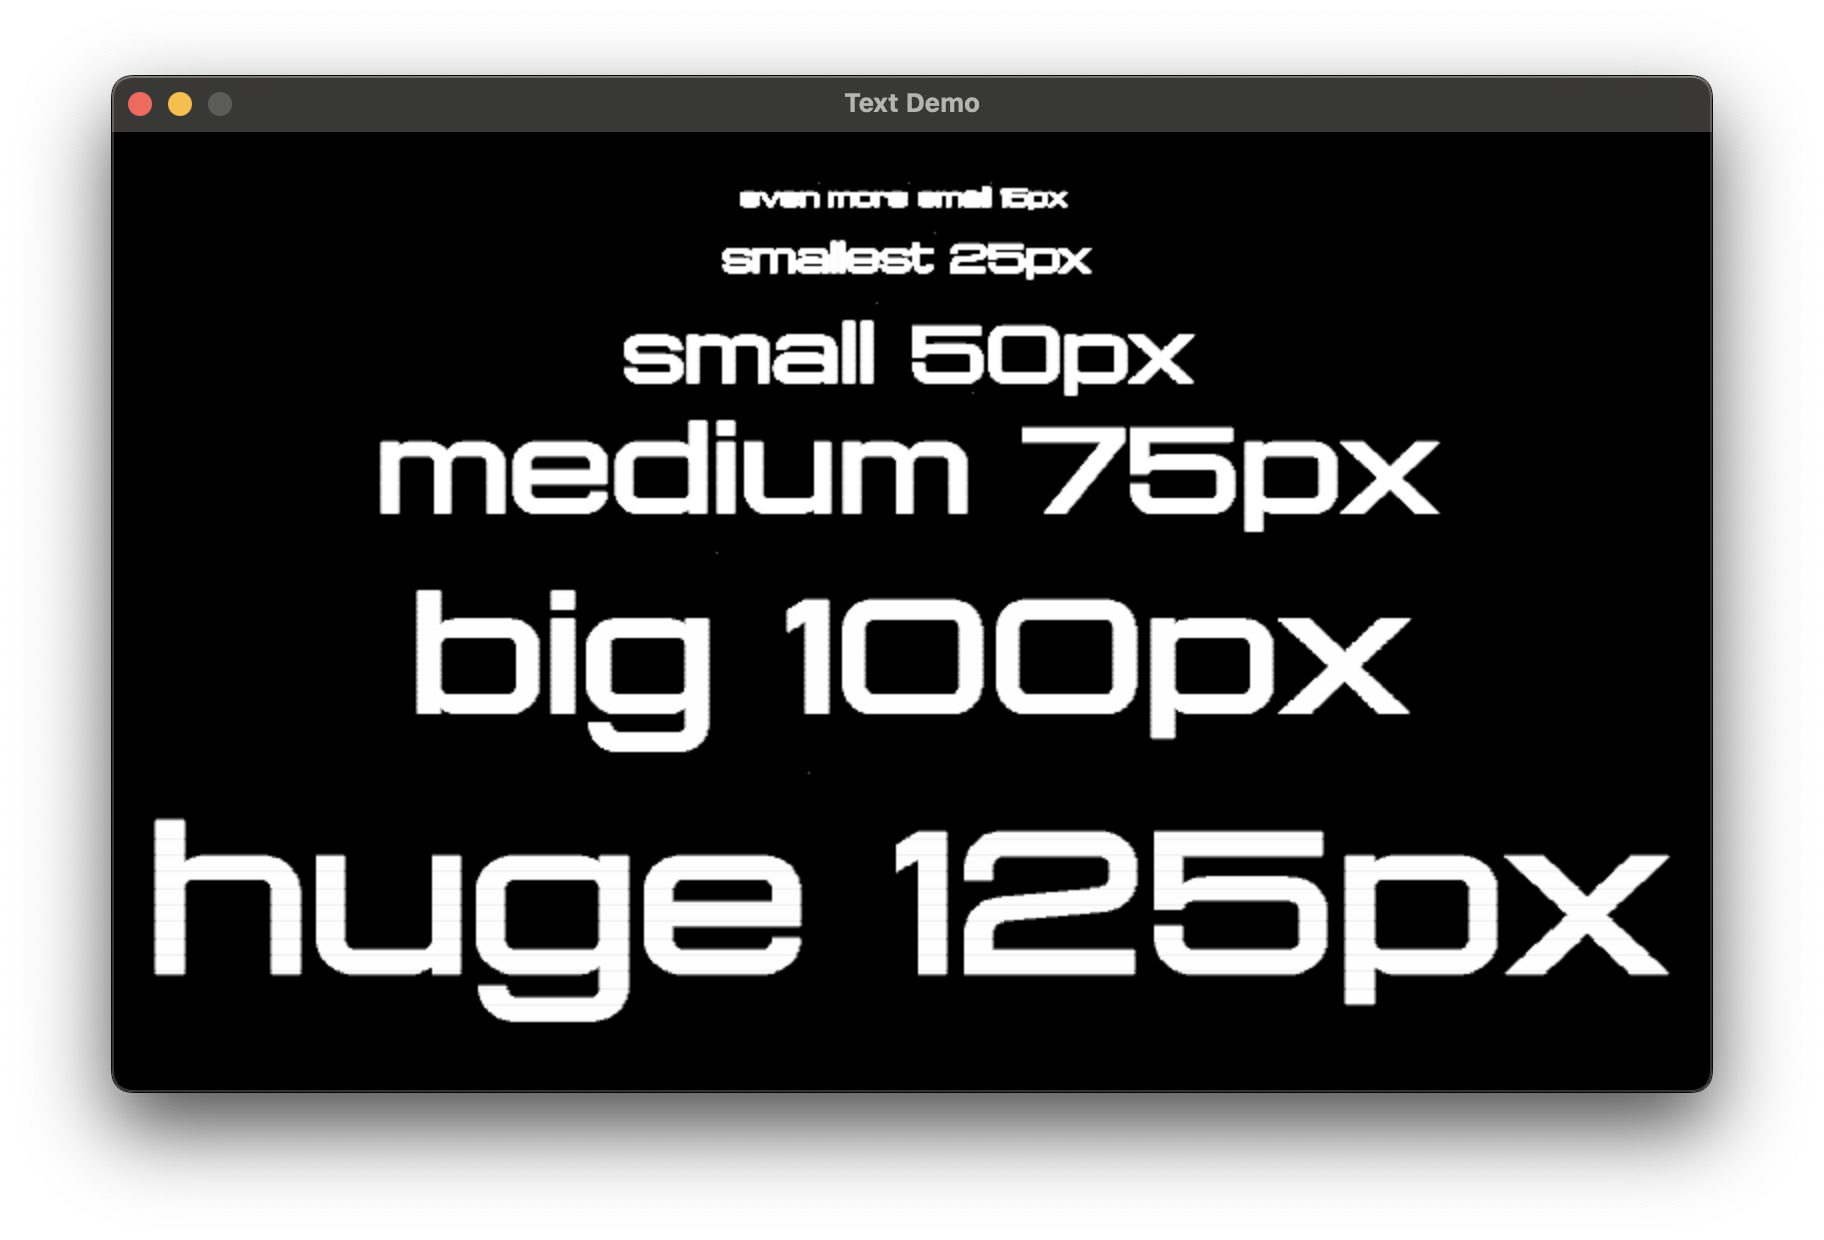
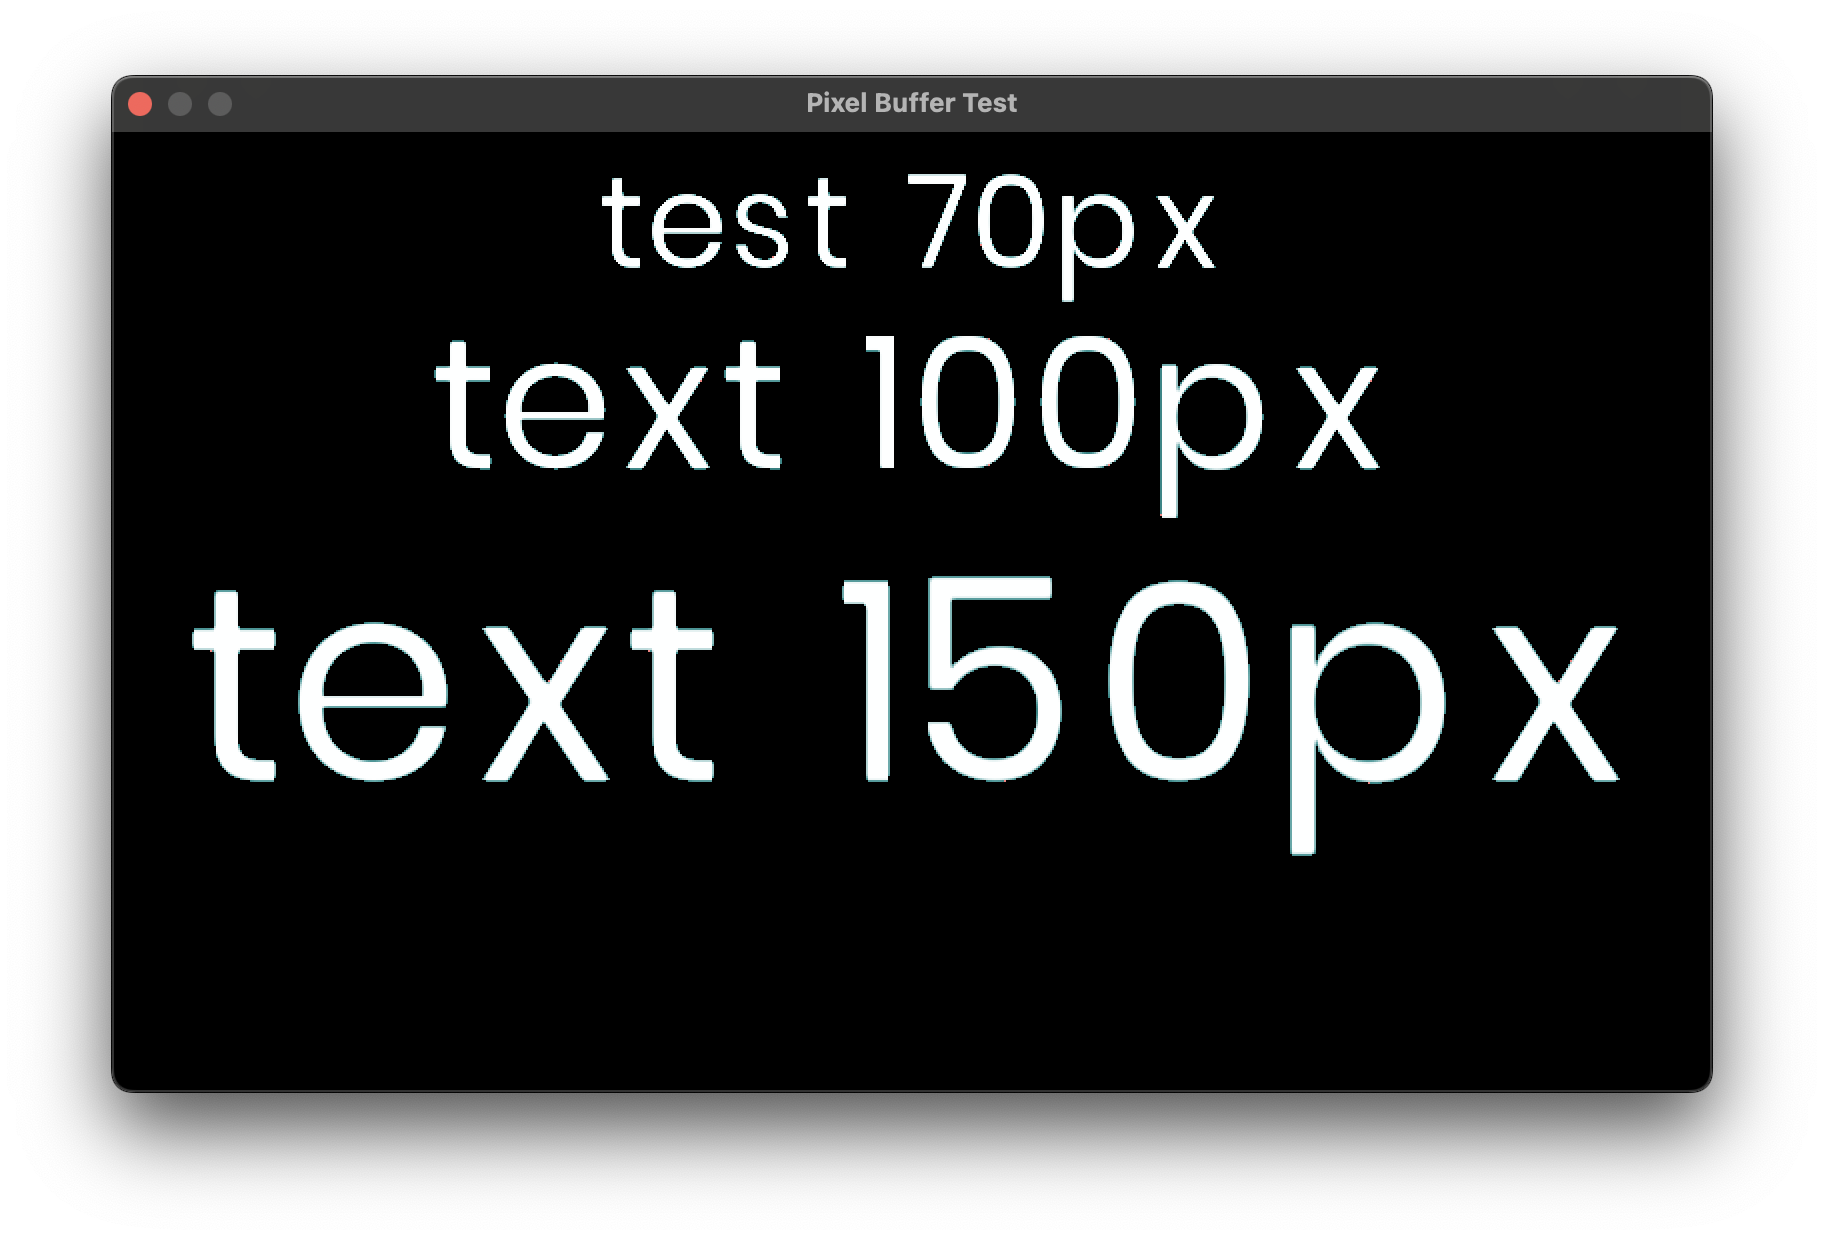
feat: updated linkedin URL and some projects

diff --git a/index.html b/index.html
@@ -62,7 +62,7 @@
                     </div>
 
                     <ul class="intro-social">
-                        <li><a href="https://www.linkedin.com/in/alessandro-bridi-b579132b0" target="_blank">Linkedin</a></li>
+                        <li><a href="https://www.linkedin.com/in/alessandro-bridi" target="_blank">Linkedin</a></li>
                         <li><a href="https://github.com/Bridiro" target="_blank">GitHub</a></li>
                         <li><a href="https://www.instagram.com/ale_bridi_" target="_blank">Instagram</a></li>
                     </ul>
@@ -216,11 +216,11 @@
                                             Embedded graphics
                                         </div>
                                         <div class="folio-list__item-title">
-                                            sw-libgraphics
+                                            libraster
                                         </div>
                                     </div>
                                 </a>
-                                <a class="folio-list__proj-link" href="https://github.com/Bridiro/sw-libgraphics" target="_blank" title="project link">
+                                <a class="folio-list__proj-link" href="https://github.com/eagletrt/libraster-sw" target="_blank" title="project link">
                                     <svg width="15" height="15" viewBox="0 0 15 15" fill="none" xmlns="http://www.w3.org/2000/svg"><path d="M8.14645 3.14645C8.34171 2.95118 8.65829 2.95118 8.85355 3.14645L12.8536 7.14645C13.0488 7.34171 13.0488 7.65829 12.8536 7.85355L8.85355 11.8536C8.65829 12.0488 8.34171 12.0488 8.14645 11.8536C7.95118 11.6583 7.95118 11.3417 8.14645 11.1464L11.2929 8H2.5C2.22386 8 2 7.77614 2 7.5C2 7.22386 2.22386 7 2.5 7H11.2929L8.14645 3.85355C7.95118 3.65829 7.95118 3.34171 8.14645 3.14645Z" fill="currentColor" fill-rule="evenodd" clip-rule="evenodd"></path></svg>
                                 </a>
                             </li>
@@ -236,7 +236,7 @@
                                             Embedded graphics
                                         </div>
                                         <div class="folio-list__item-title">
-                                            sw-libfont
+                                            glyphr
                                         </div>
                                     </div>
                                 </a>
@@ -293,14 +293,14 @@
                             <img src="images/steering.jpg" alt="">
                 
                             <div class="modal-popup__desc">
-                                <h5>sw-libgraphics</h5>
+                                <h5>libraster</h5>
                                 <p>This is a lightweight library that can work literally everywhere. It is designed to be flexible and to work flawlessy on MCUs, as its primary scope is to be used on <a href="https://eagletrt.it" target="_blank">E-Agle TRT</a>'s steering wheel.</p>
                                 <ul class="modal-popup__cat">
                                     <li>Embedded graphics</li>
                                 </ul>
                             </div>
                 
-                            <a href="https://github.com/Bridiro/sw-libgraphics" target="_blank" class="modal-popup__details">Project link</a>
+                            <a href="https://github.com/eagletrt/libraster-sw" target="_blank" class="modal-popup__details">Project link</a>
                         </div>
                     </div>
 
@@ -309,14 +309,14 @@
                             <img src="images/font.png" alt="">
                 
                             <div class="modal-popup__desc">
-                                <h5>sw-libfont</h5>
-                                <p>This lightweight libray serves as an utility to prepocess ttf files into C ultra-compressed font bitmaps, and the C library is developed similar to <a href="https://github.com/Bridiro/sw-libgraphics" target="_blank">sw-libgraphics</a> to permit a flawless integration.</p>
+                                <h5>glyphr</h5>
+                                    <p>This library is a personal project developed after working on <a href="https://github.com/eagletrt/libraster-sw">libraster</a>. This focuses only on font rendering, making beautiful while keeping in mind performances. It's made in Rust with support for embedded development.</p>
                                 <ul class="modal-popup__cat">
                                     <li>Embedded graphics</li>
                                 </ul>
                             </div>
                 
-                            <a href="https://github.com/Bridiro/sw-libfont" target="_blank" class="modal-popup__details">Project link</a>
+                            <a href="https://github.com/Bridiro/glyphr" target="_blank" class="modal-popup__details">Project link</a>
                         </div>
                     </div>
 
@@ -381,7 +381,7 @@
                     <div class="column lg-4 md-5 tab-6 stack-on-550 contact-block">
                         <h3 class="text-pretitle">Social</h3>
                         <ul class="contact-social">
-                            <li><a href="https://www.linkedin.com/in/alessandro-bridi-b579132b0" target="_blank">Linkedin</a></li>
+                            <li><a href="https://www.linkedin.com/in/alessandro-bridi" target="_blank">Linkedin</a></li>
                             <li><a href="https://github.com/Bridiro" target="_blank">GitHub</a></li>
                             <li><a href="https://www.instagram.com/ale_bridi_" target="_blank">Instagram</a></li>
                         </ul>
